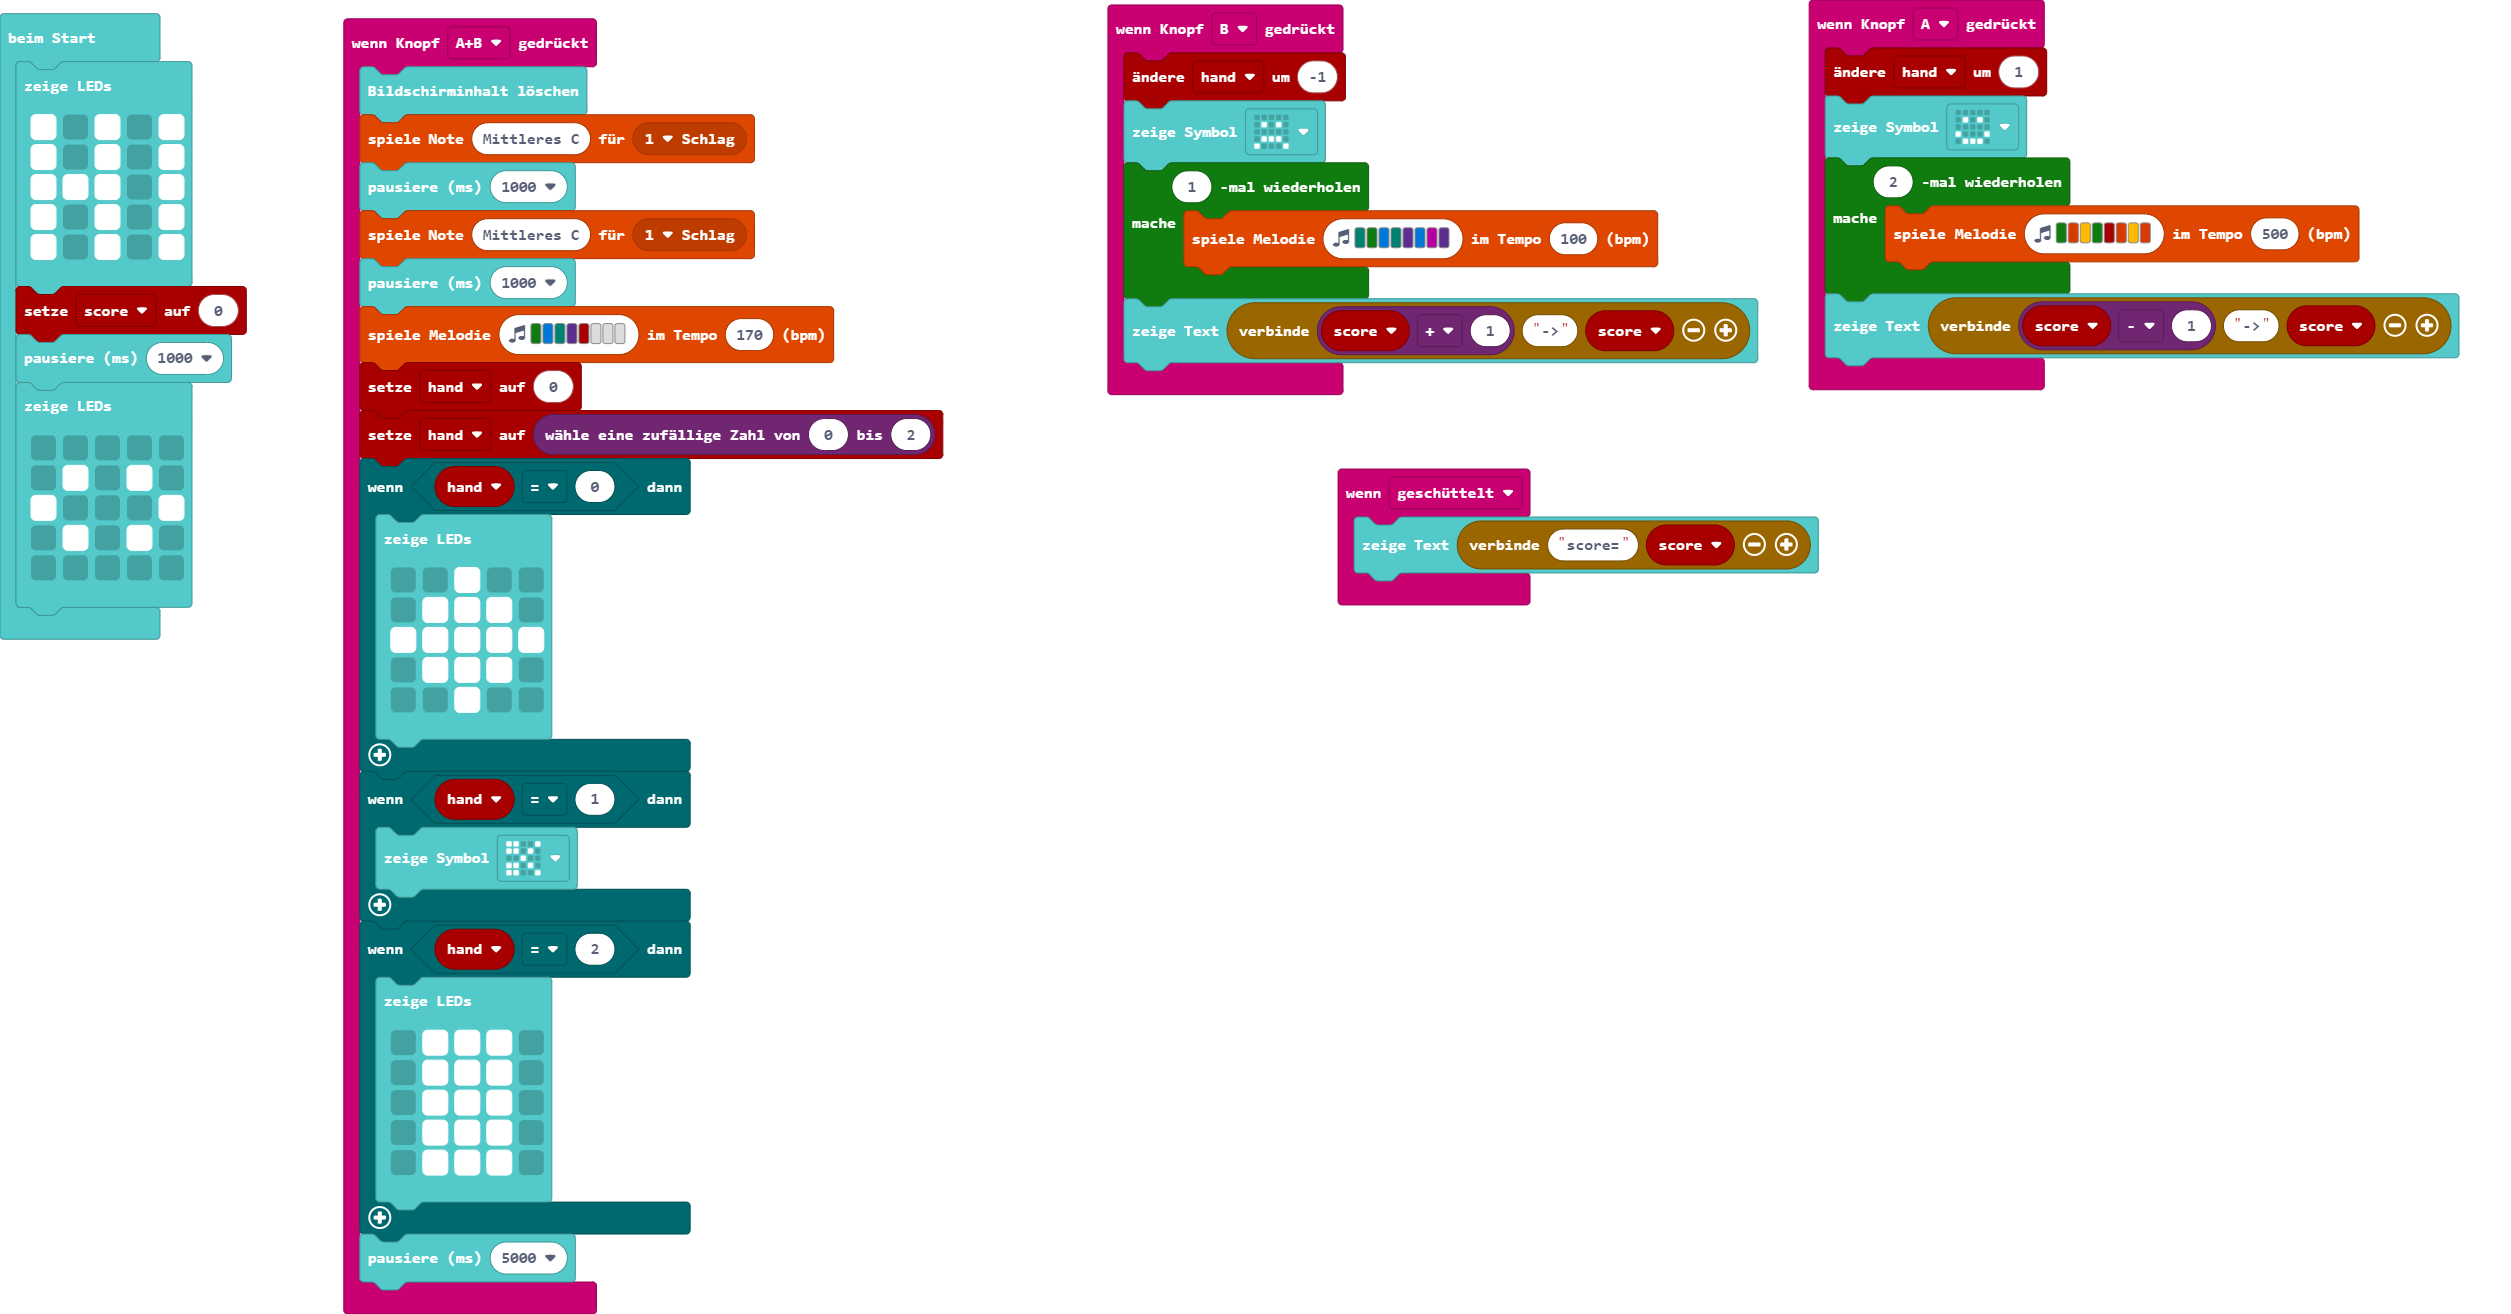
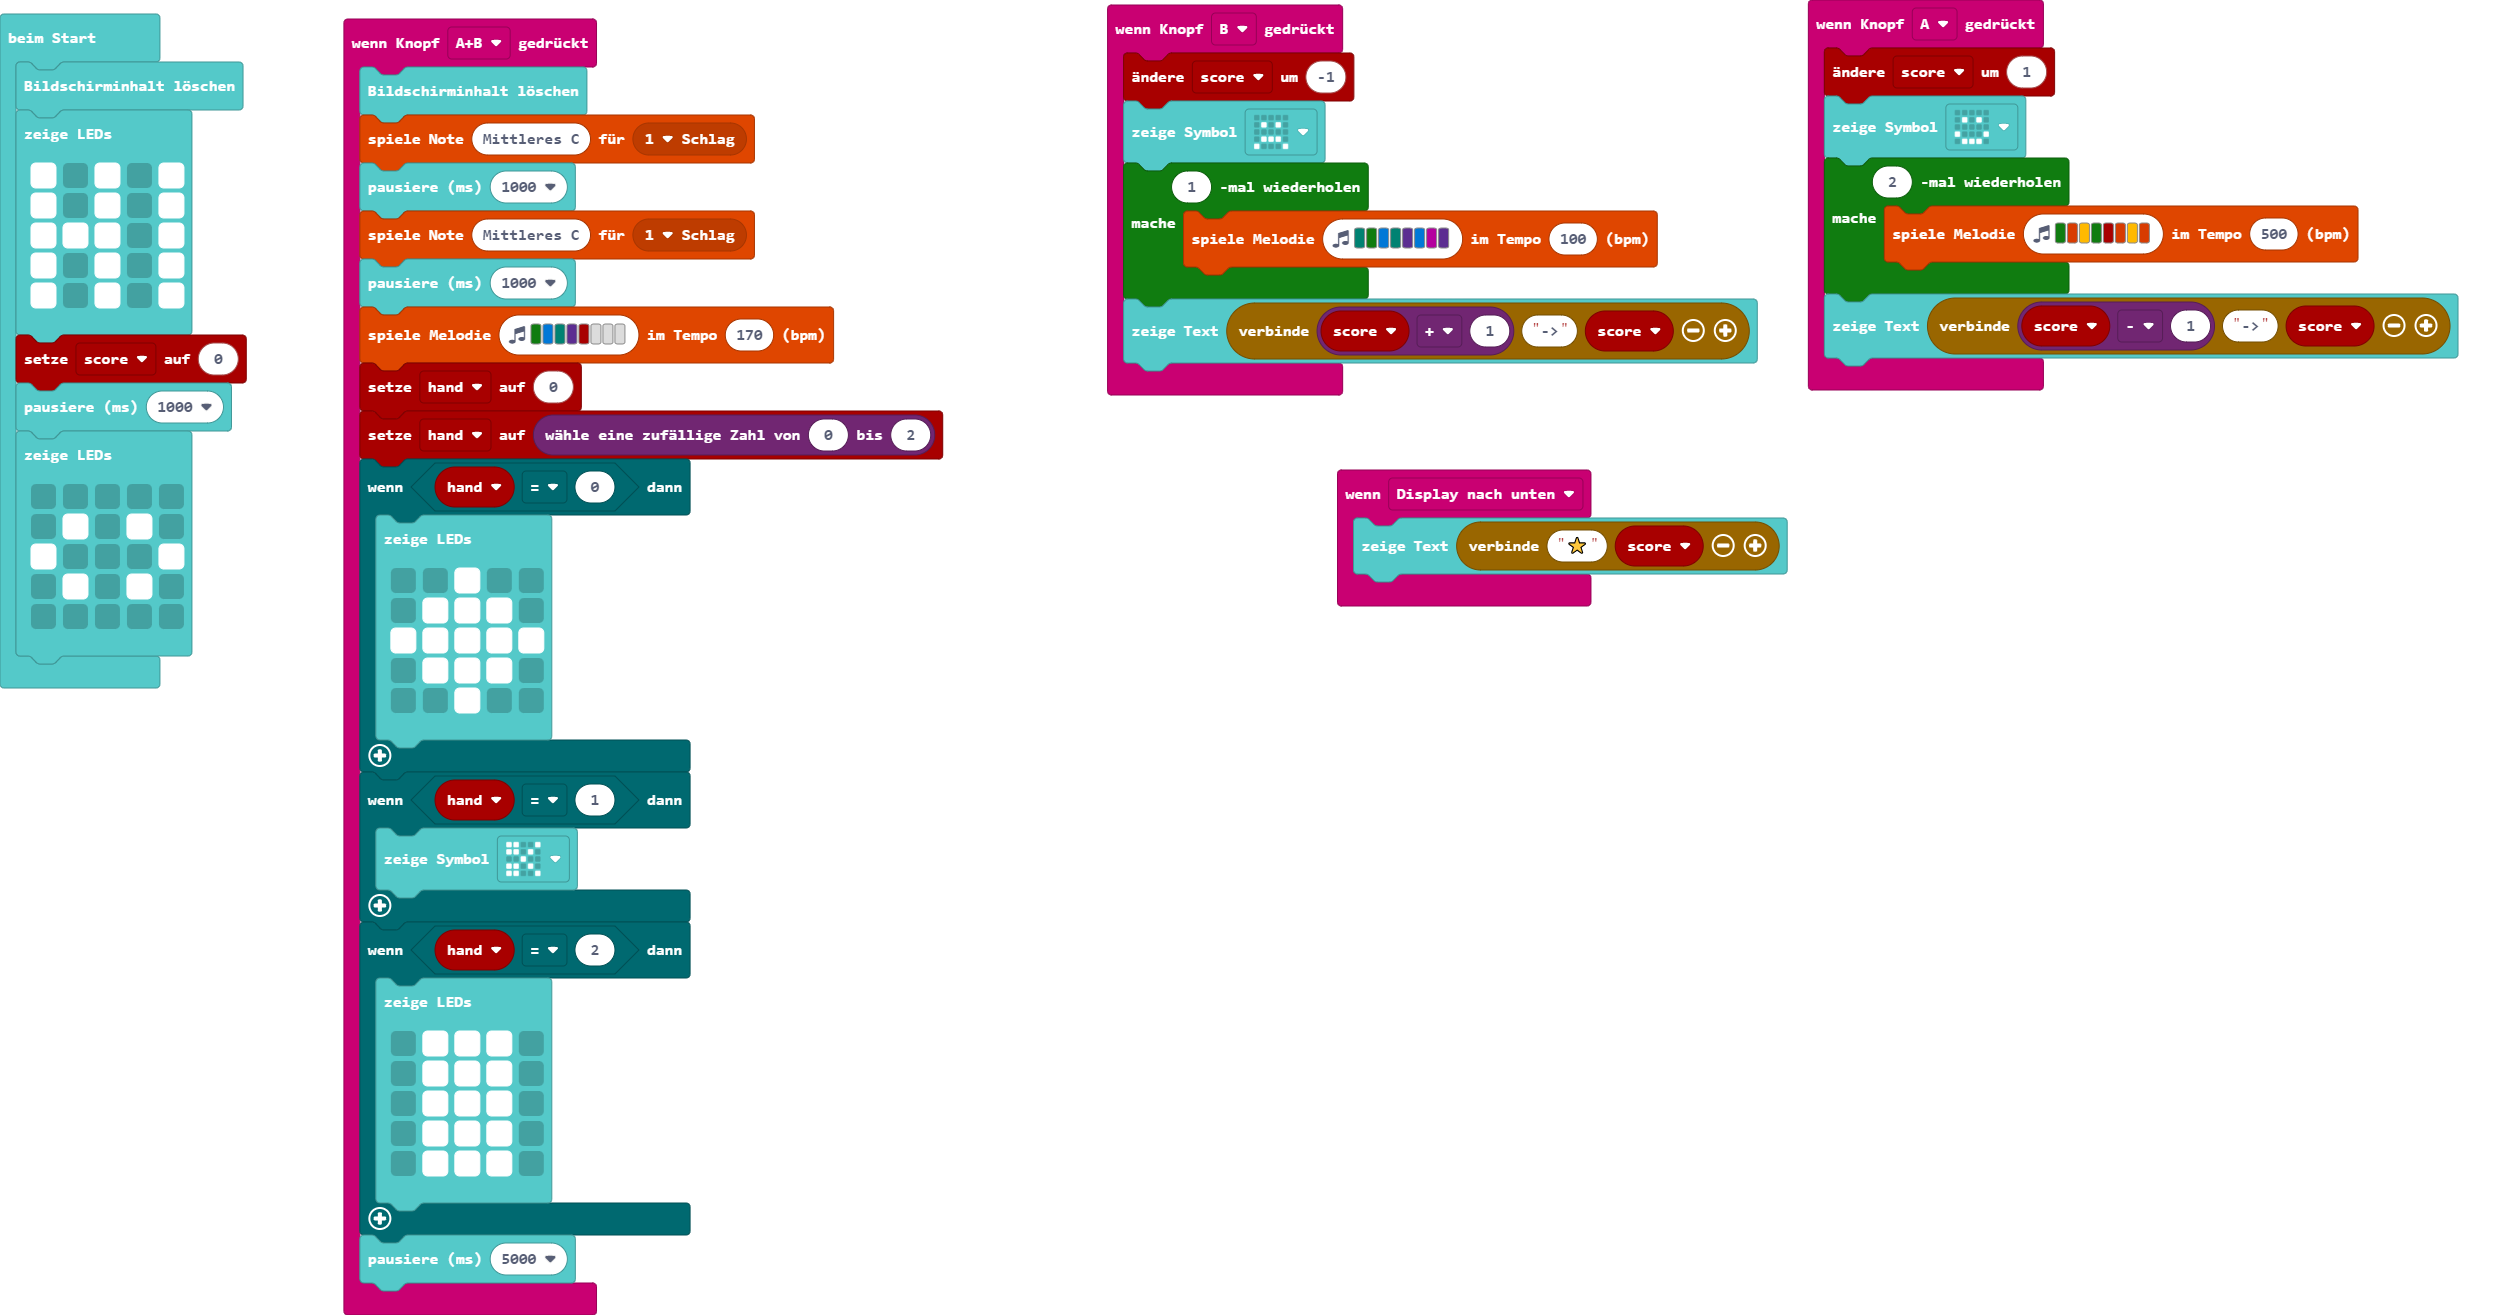
Aktualisiere main.blocks, main.ts

diff --git a/main.ts b/main.ts
@@ -1,13 +1,13 @@
+input.onGesture(Gesture.ScreenDown, function () {
+    basic.showString("⭐" + score)
+})
 input.onButtonPressed(Button.A, function () {
-    hand += 1
+    score += 1
     basic.showIcon(IconNames.Happy)
     for (let index = 0; index < 2; index++) {
         music.playMelody("G B A G C5 B A B ", 500)
     }
     basic.showString("" + (score - 1) + "->" + score)
-})
-input.onGesture(Gesture.Shake, function () {
-    basic.showString("score=" + score)
 })
 input.onButtonPressed(Button.AB, function () {
     basic.clearScreen()
@@ -42,7 +42,7 @@ input.onButtonPressed(Button.AB, function () {
     basic.pause(5000)
 })
 input.onButtonPressed(Button.B, function () {
-    hand += -1
+    score += -1
     basic.showIcon(IconNames.Sad)
     for (let index = 0; index < 1; index++) {
         music.playMelody("F G E F D E C D ", 100)
@@ -51,6 +51,7 @@ input.onButtonPressed(Button.B, function () {
 })
 let hand = 0
 let score = 0
+basic.clearScreen()
 basic.showLeds(`
     # . # . #
     # . # . #
